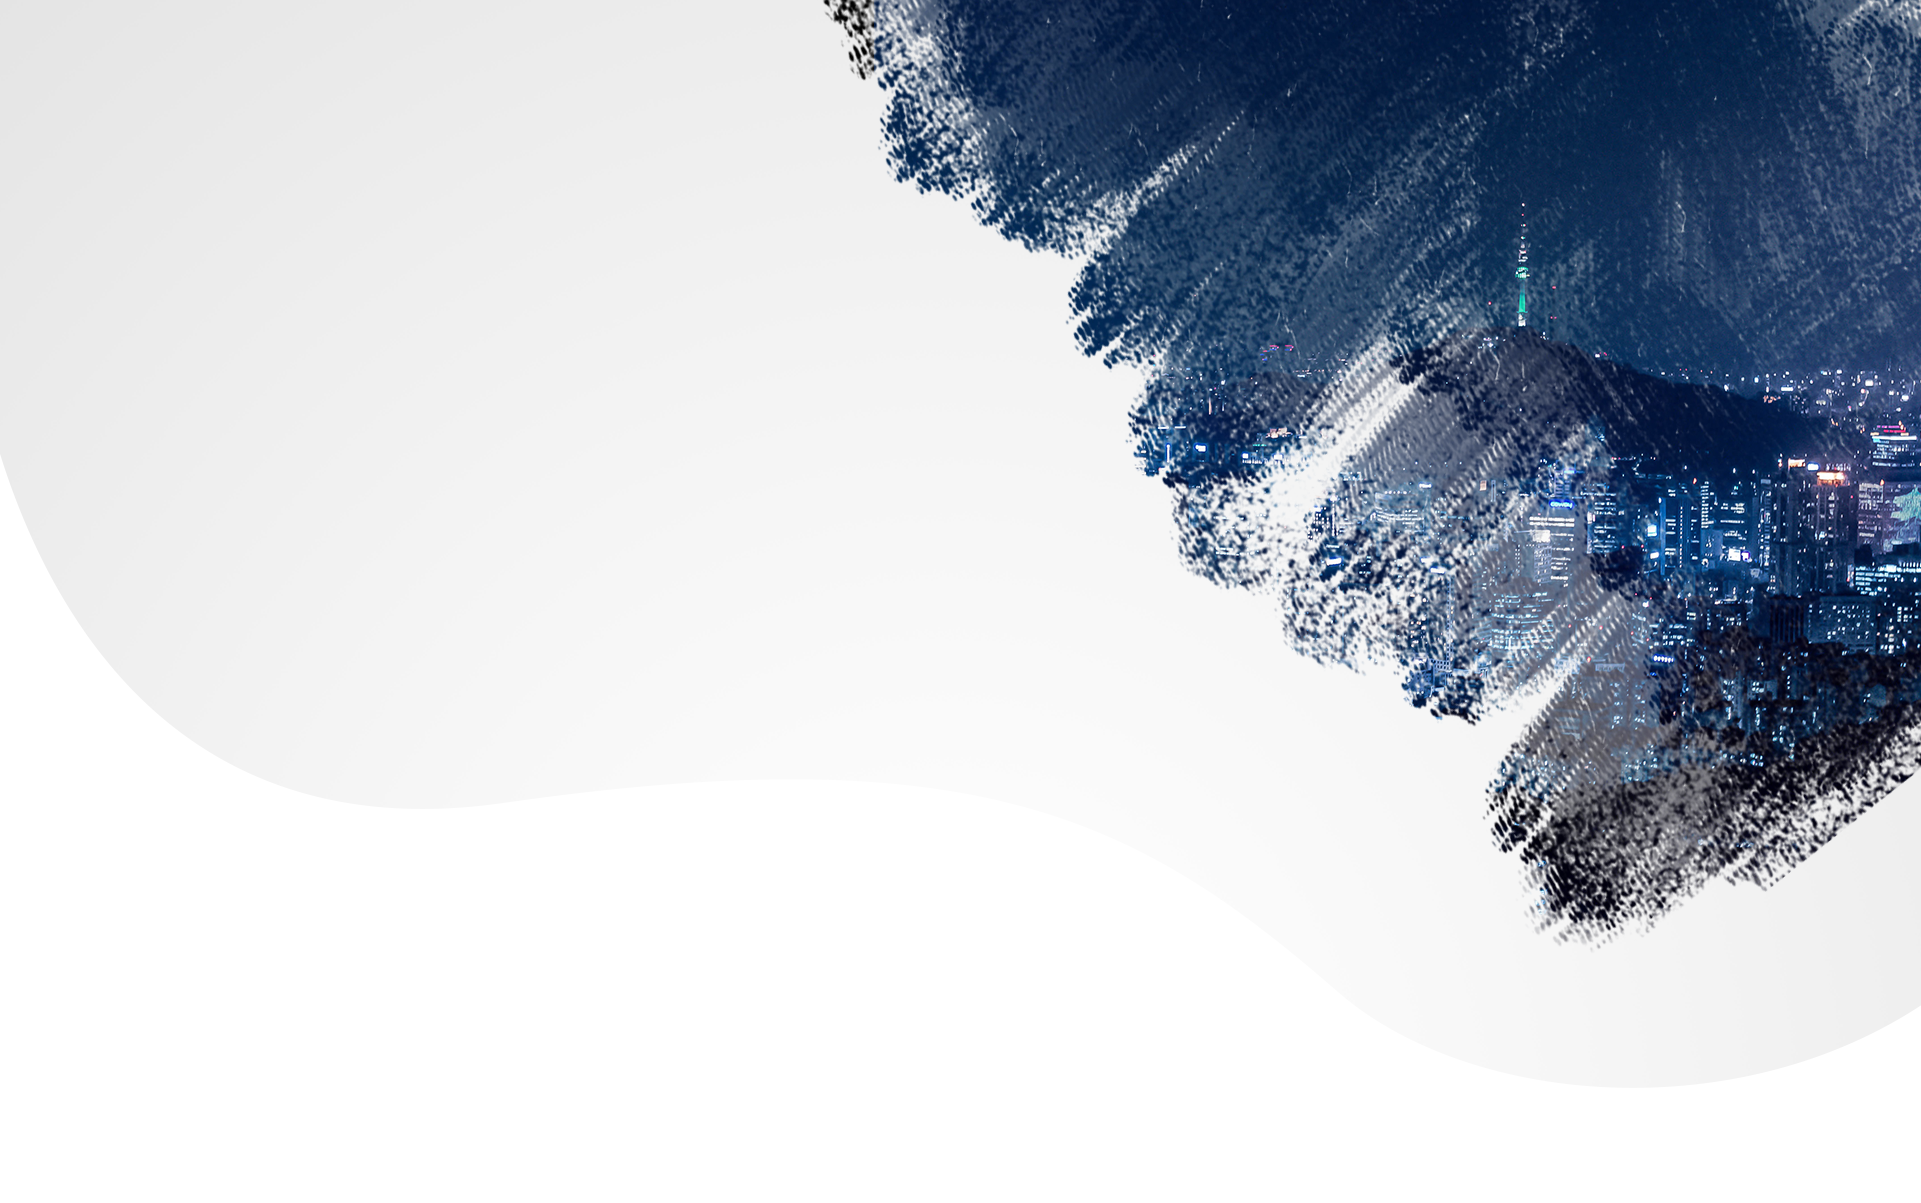
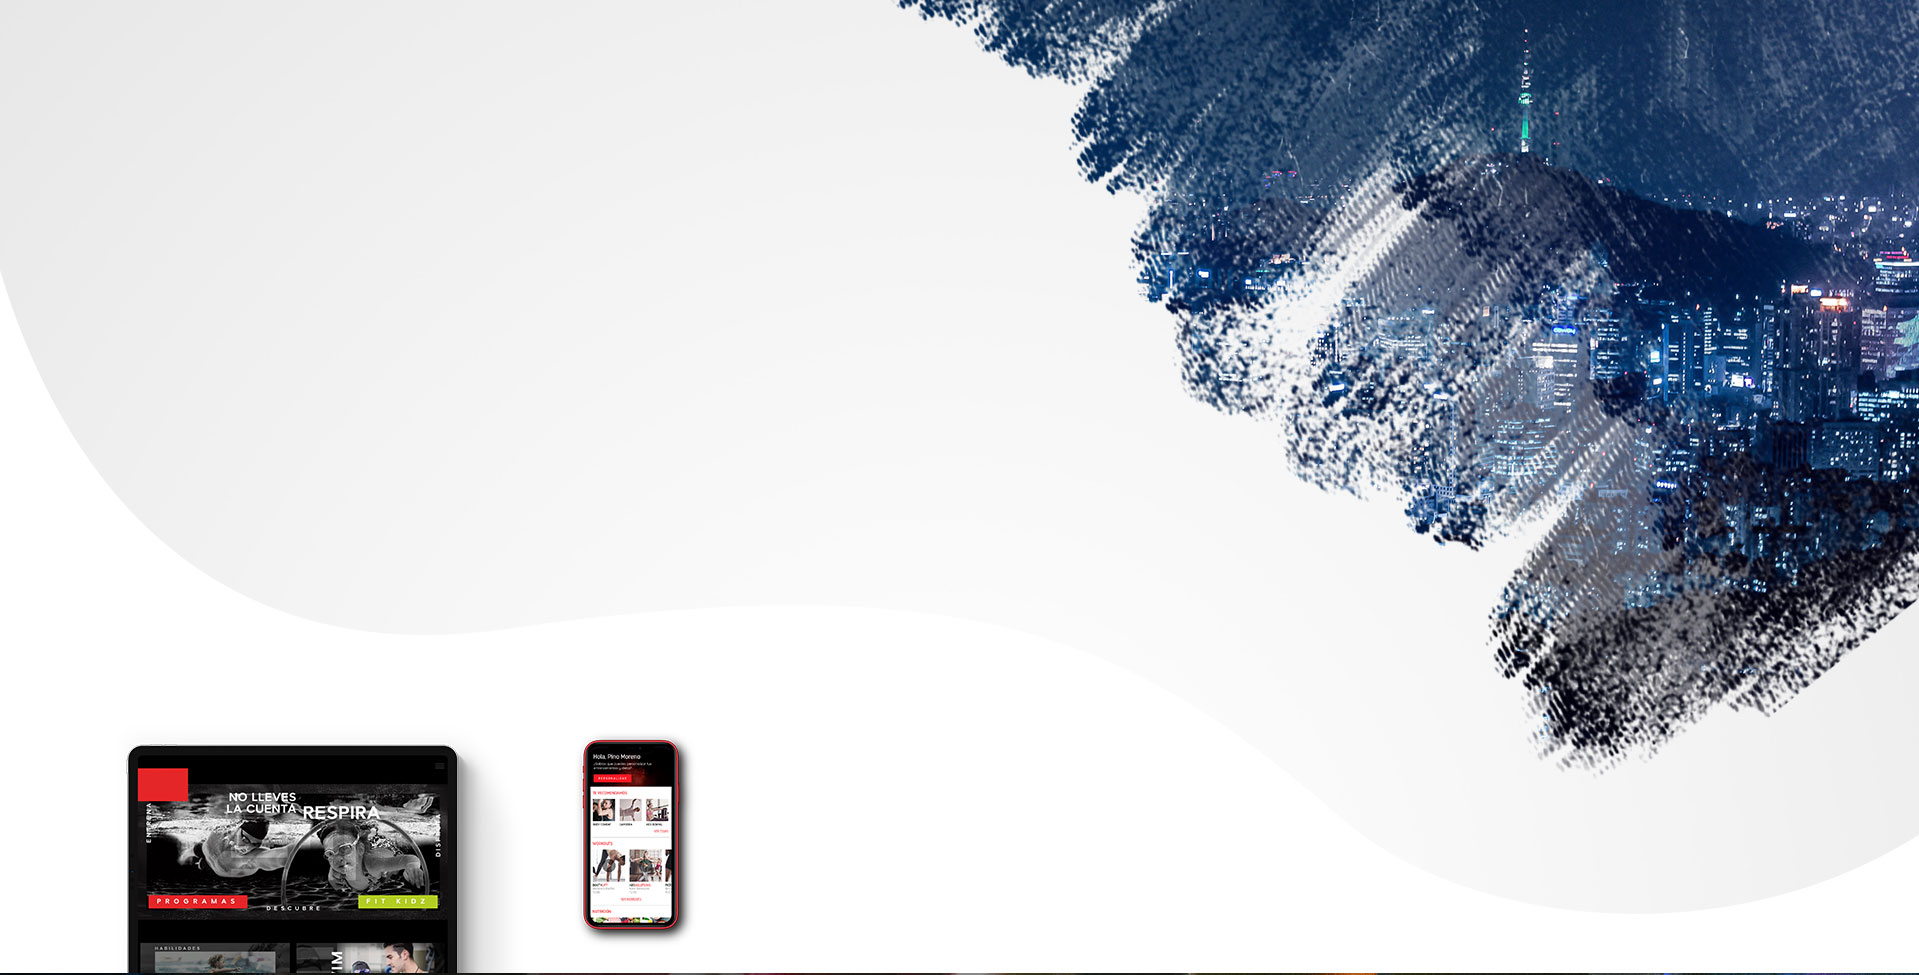
cambios en header

Changed region(s): [[0.4304, 0.0, 1.0, 0.8], [0.0, 0.7385, 1.0, 1.0]]

diff --git a/src/Styles/Home/HomeStyles.css b/src/Styles/Home/HomeStyles.css
@@ -14,6 +14,10 @@
     font-family: MontserrarMedium;
     src: url("../../Assets/Fonts/montserrat/Montserrat-Medium.otf");
 }
+@font-face {
+    font-family: MontserratRegular;
+    src: url("../../Assets/Fonts/montserrat/Montserrat-Regular.otf");
+}
 
 .container-home{
     width: 100%;
@@ -32,19 +36,9 @@
     left: 0;
     height: 100%;
 }
-.container-home-header-logo{
-    position: absolute;
-    width: 300px;
-    left: 150px;
-    top: 70px;
-}
-.container-home-header-logo img{
-    width: 300px;
-    height: auto;
-}
 .container-home-header-info{
     position: absolute;
-    bottom: 200px;
+    bottom: 220px;
     left: 150px;
 }
 .container-home-header-info-title p{
@@ -53,9 +47,10 @@
     color: gray;
     font-weight: 300;
     font-family: MontserratLight, sans-serif;
+    width: 500px;
 }
 .text-blue{
-    color: rgb(50,0,255);
+    color: #1d6dc2;
     font-size: 30px;
     font-weight: 800;
     font-family: MontserratBlack, sans-serif;
@@ -65,10 +60,11 @@
     margin-top: 10px;
 }
 .container-home-header-info-text p{
-    font-size: 12px;
+    font-size: 15px;
     color: gray;
     text-align: left;
     font-family: MontserratLight, sans-serif;
+    width: 550px;
 }
 
 /*sliderHOME*/
@@ -83,14 +79,6 @@
     .container-home-header{
         width: 100%;
         box-sizing: border-box;
-    }
-    .container-home-header-logo{
-        left: 5%;
-        top: 20px;
-    }
-    .container-home-header-logo img{
-        width: 100px;
-        height: 40px;
     }
     .container-home-header-info{
         left: 5%;
@@ -107,14 +95,6 @@
     }
 }
 @media only screen and (min-width: 768px) and (max-width: 992px){
-    .container-home-header-logo{
-        left: 5%;
-        top: 30px;
-    }
-    .container-home-header-logo img{
-        width: 150px;
-        height: 50px;
-    }
     .container-home-header-info{
         left: 5%;
         bottom: 40px;
@@ -122,14 +102,6 @@
 }
 
 @media only screen and (min-width: 993px) and (max-width: 1199px){
-    .container-home-header-logo{
-        left: 5%;
-        top: 20px;
-    }
-    .container-home-header-logo img{
-        width: 200px;
-        height: 70px;
-    }
     .container-home-header-info{
         left: 5%;
         bottom: 20%;
@@ -163,11 +135,6 @@
     }
 }
 @media only screen and (min-width: 1801px) and (max-width: 3999px){
-    .container-home-header-logo,
-    .container-home-header-logo img{
-        width: 500px;
-        height: 100px;
-    }
     .container-home-header-info-title p{
         font-size: 70px;
     }
@@ -182,11 +149,6 @@
     }
 }
 @media only screen and (min-width: 4000px){
-    .container-home-header-logo,
-    .container-home-header-logo img{
-        width: 900px;
-        height: 200px;
-    }
     .container-home-header-info{
         bottom: 30%;
     }

diff --git a/src/Components/Home/Home.js b/src/Components/Home/Home.js
@@ -1,9 +1,9 @@
 import React from "react";
 import FondoHEader from '../../Assets/Images/Fondo1.png';
 import '../../Styles/Home/HomeStyles.css';
-import LogoNevam from '../../Assets/Images/Logohorizontal.png';
 import Slider from "../Slider/Slider";
 import Solutions from "../Solutions/Solutions";
+import Header from "../Header/Header";
 
 export default class Home extends React.Component{
     constructor(props){
@@ -14,20 +14,18 @@ export default class Home extends React.Component{
         return(
             <div className="container-home">
                 <div className="container-home-header">
+                    <Header/>
                     <img src={FondoHEader} alt="navem"/>
-                    <div className="container-home-header-logo">
-                        <img src={LogoNevam} alt=""/>
-                    </div>
                     <div className="container-home-header-info">
                         <div className="container-home-header-info-title">
-                            <p>Desarrollamos <span className={"text-blue"}>soluciones</span> </p>
-                            <p>para <span className={"text-blue"}>cada</span> necesidad</p>
+                            <p>Damos <span className={"text-blue"}>soluciones innovadoras</span> </p>
+                            <p>para <span className={"text-blue"}>todas</span> tus necesidades</p>
                         </div>
                         <div className="container-home-header-info-text">
-                            <p>Somos un equipo altamente competitivo, dedicado al desarrollo de software; con altos
-                                niveles de compromiso y lealtad, utilizamos todo nuestro expertise en cada proyecto.
-                                Todas nuestras áreas están capacitadas para atender las necesidades y solucionar las
-                                necesidades de nuestros clientes.
+                            <p>Somos una empresa que desarrolla soluciones creativas y a tu medida. Te ahorramos
+                                recursos económicos, tiempo y esfuerzo, y además, te garantizamos soluciones amigables,
+                                fáciles de usar y exclusivas para tu empresa. ¿Te interesa saber mas de nosotros?
+                                contactanos y descubre, sin compromiso, todo lo que podemos hacer por ti.
                             </p>
                         </div>
                     </div>

diff --git a/src/Styles/Header/HeaderStyles.css b/src/Styles/Header/HeaderStyles.css
@@ -1,0 +1,41 @@
+.container-header{
+    width: 100%;
+    position: fixed;
+    top: 0;
+    z-index: 100;
+    height: 125px;
+}
+.container-header img{
+    width: 100%;
+    max-width: 100%;
+}
+.container-header-logo{
+    position: relative;
+}
+.container-header-logo img{
+    width: 200px;
+    height: 42px;
+    position: absolute;
+    top: 30px;
+    left: 150px;
+}
+.container-header-logo-tabs{
+    position: absolute;
+    right: 150px;
+    top: 40px;
+    display: flex;
+    flex-direction: row;
+    flex-wrap: nowrap;
+    justify-content: flex-start;
+}
+.container-header-logo-tabs p{
+    color: white;
+    padding: 0 20px;
+    font-family: MontserratRegular, sans-serif;
+}
+.container-header-logo-tabs p:hover{
+    cursor: pointer;
+}
+.container-header-logo-tabs p:nth-child(1){
+    border-right: solid 1px white;
+}

diff --git a/src/Components/Header/Header.js b/src/Components/Header/Header.js
@@ -1,0 +1,25 @@
+import React from "react";
+import HeaderImage from '../../Assets/Images/Fondoheader.jpg';
+import '../../Styles/Header/HeaderStyles.css';
+import LogoNevam from '../../Assets/Images/Logohorizontal.png';
+
+export default class Header extends React.Component{
+    constructor(props){
+        super(props);
+    }
+
+    render(){
+        return(
+            <div className="container-header">
+                <img src={HeaderImage} alt=""/>
+                <div className={"container-header-logo"}>
+                    <img src={LogoNevam} alt=""/>
+                    <div className="container-header-logo-tabs">
+                        <p>Servicios</p>
+                        <p>Contactanos</p>
+                    </div>
+                </div>
+            </div>
+        );
+    }
+}

diff --git a/src/Components/Solutions/Solutions.js b/src/Components/Solutions/Solutions.js
@@ -20,7 +20,7 @@ export default class Solutions extends React.Component{
             <div className="container-solutions">
                 <img src={SolutionsBack} alt=""/>
                 <div className="container-solutions-title">
-                    <p>Nosotros integramos y automatizamos tu empresa y tus servicios</p>
+                    <p>Nosotros <span className="text-blue-solution">integramos</span> y automatizamos tu empresa y tus <span className="text-blue-solution">servicios</span> </p>
                     <div className="container-solutions-info">
                         <div className="container-solutions-info-item top">
                             <img src={DesarrolloDeAplicaciones} alt=""/>

diff --git a/src/Styles/Solutions/SolutionsStyles.css b/src/Styles/Solutions/SolutionsStyles.css
@@ -13,11 +13,16 @@
     color: gray;
     width: 100%;
 }
+.text-blue-solution{
+    font-family: MontserratBlack, sans-serif;
+    font-size: 30px;
+    color: #1d6dc2;
+}
 .container-solutions-title p{
     display: inline-block;
-    width: 470px;
+    width: 600px;
     font-size: 25px;
-    font-family: MontserrarMedium, sans-serif;
+    font-family: MontserratRegular, sans-serif;
 }
 .container-solutions-info{
     width: 900px;
